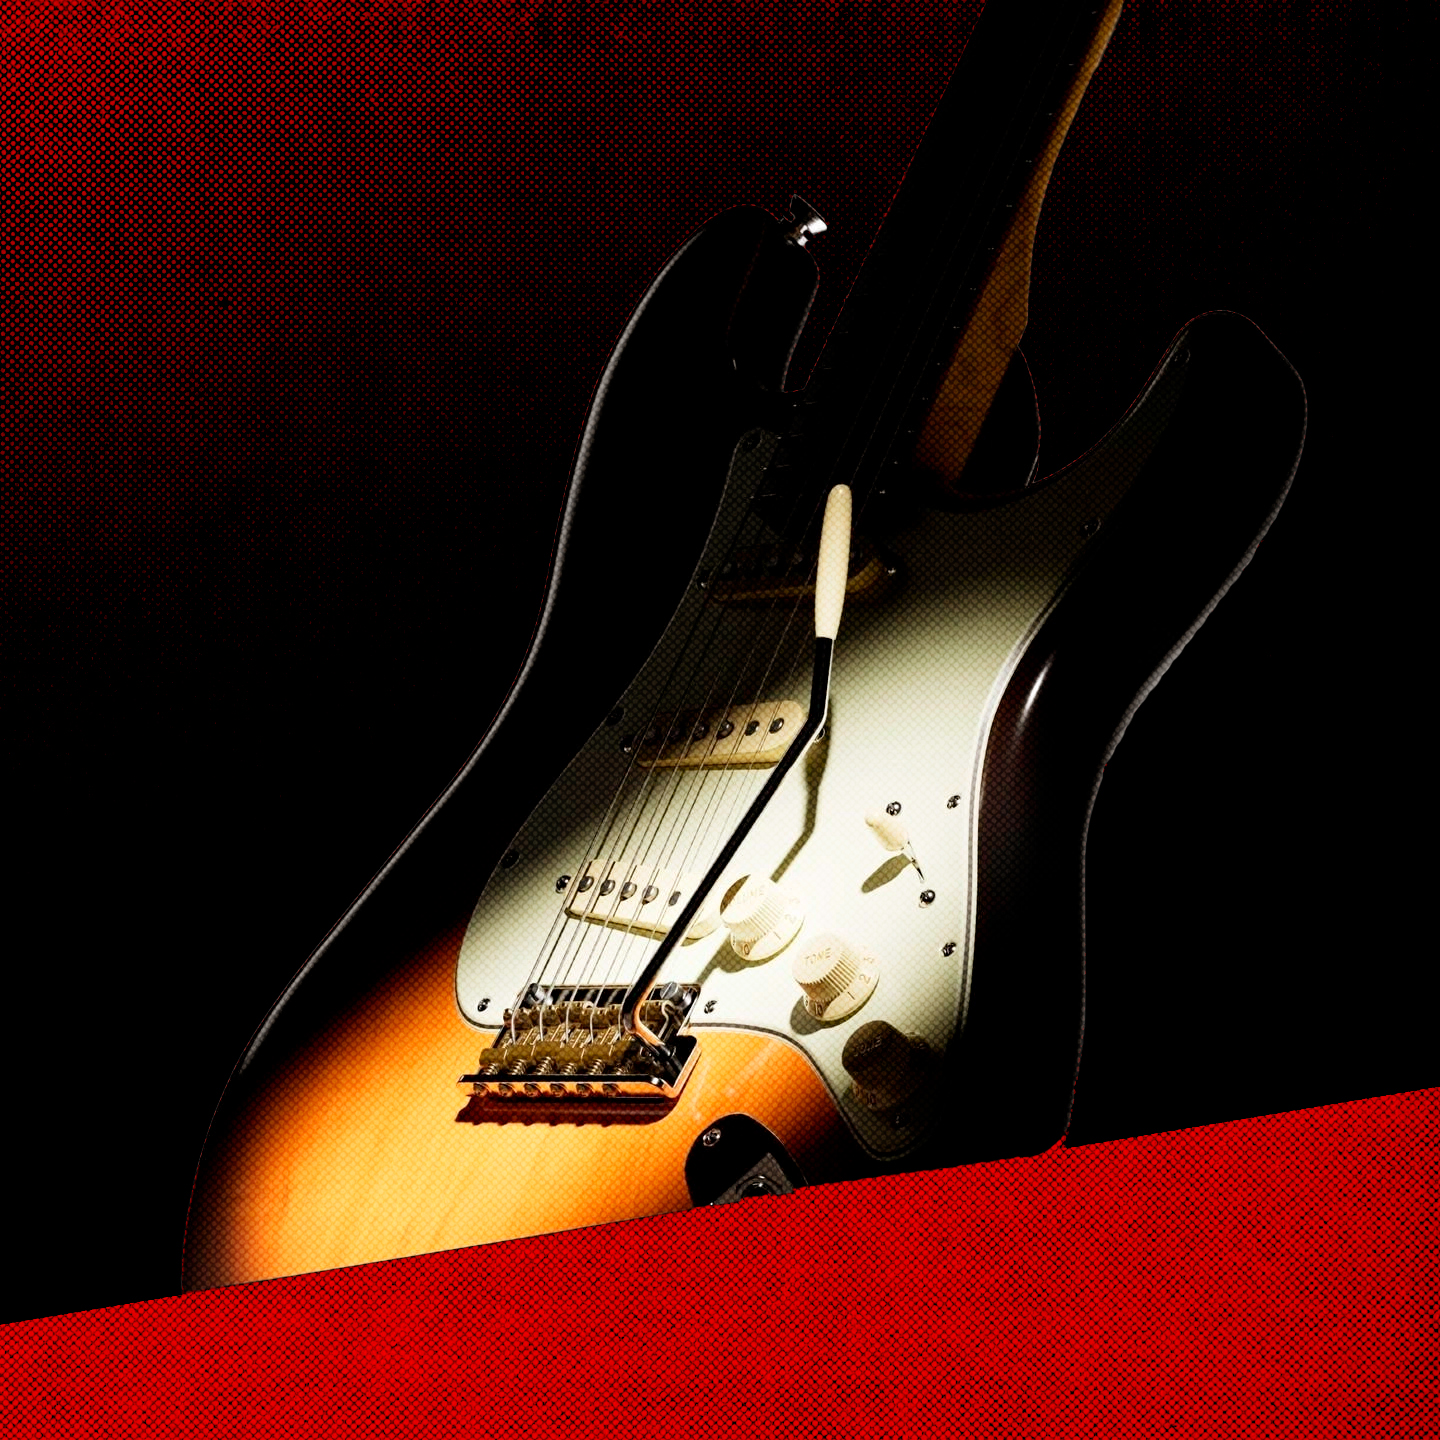
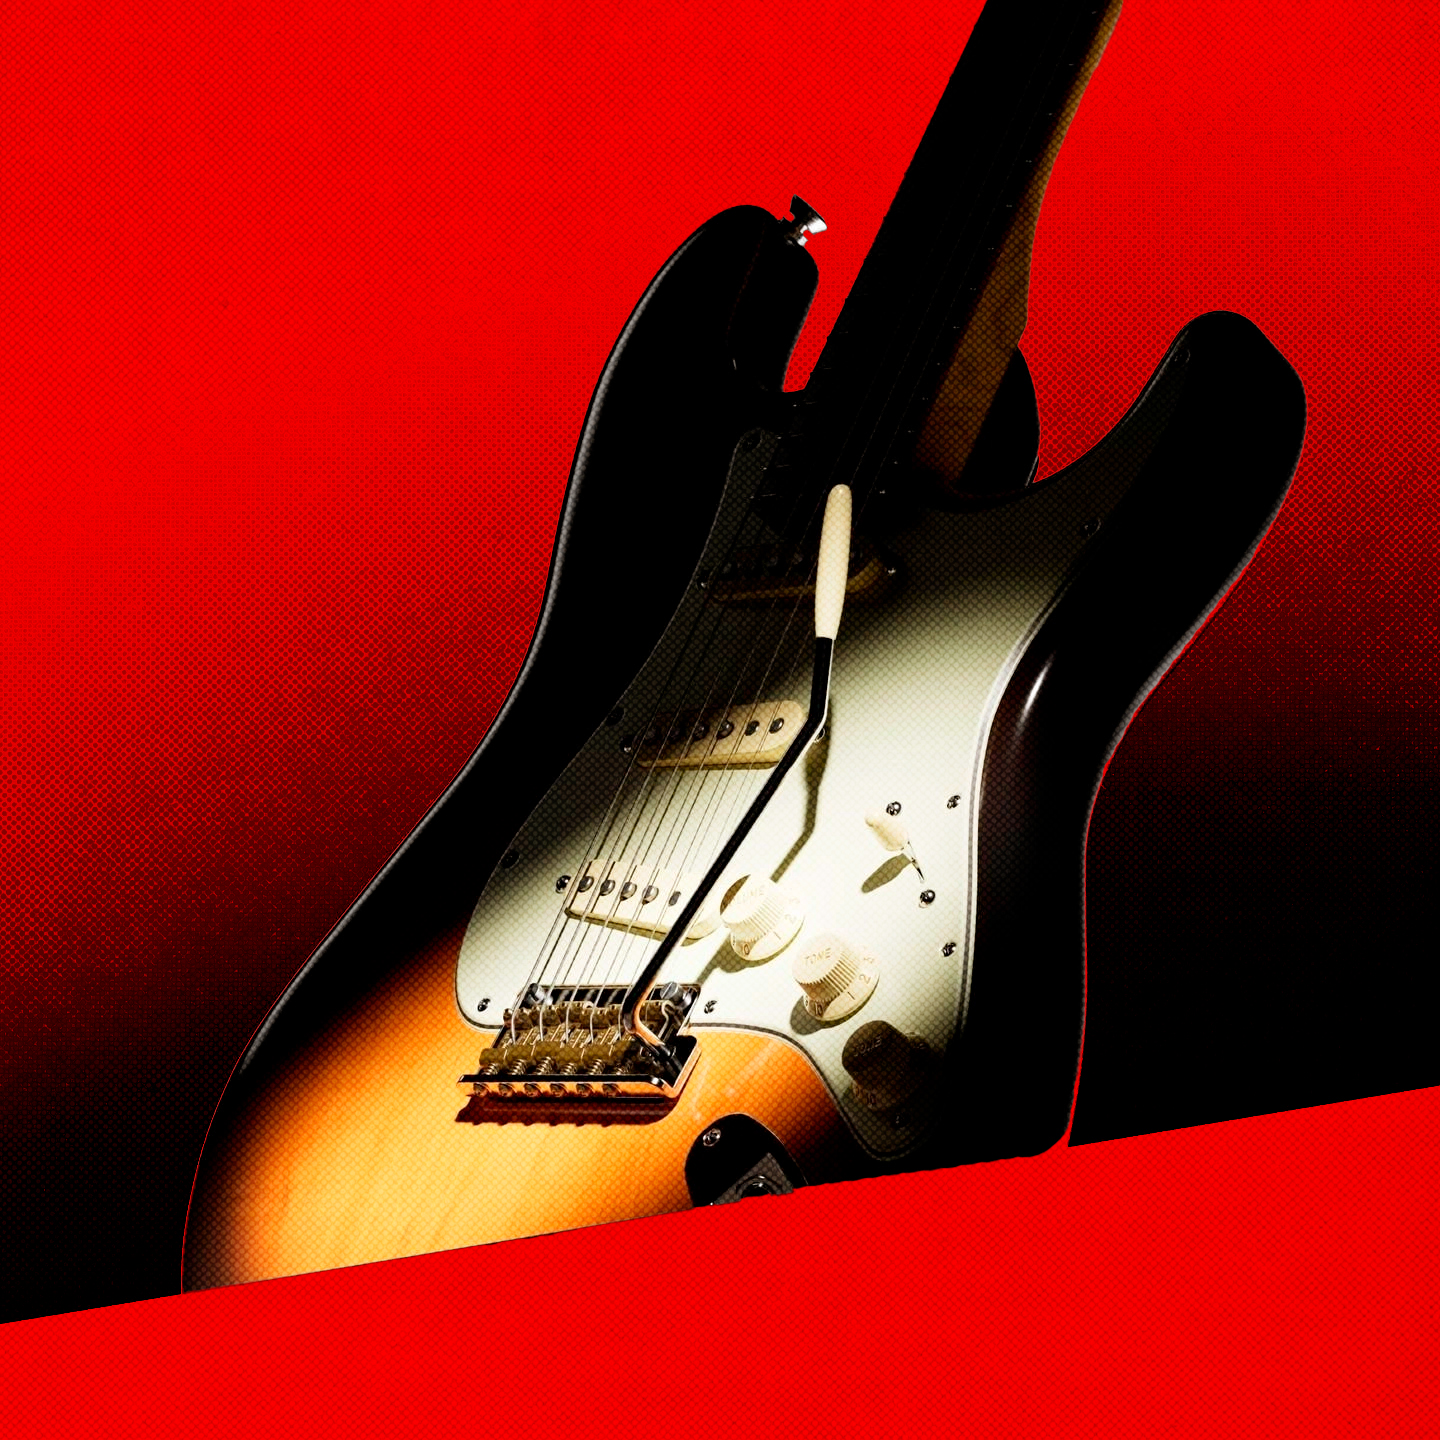
cambio de imagenes

diff --git a/index.html b/index.html
@@ -226,7 +226,7 @@
         <!-- Cara frontal: producción en serie (apagada) -->
         <div class="flip-face flip-front">
           <div class="vs-media">
-            <img src="assets/serie.png" alt="Línea de montaje de guitarras en una fábrica" loading="lazy" />
+            <img src="assets/fabrica.webp" alt="Línea de montaje de guitarras en una fábrica" loading="lazy" />
             <span class="vs-label">Producción en serie</span>
           </div>
           <ul class="vs-list" aria-label="Características de la producción en serie">
@@ -240,10 +240,8 @@
 
         <!-- Cara trasera: luthería de autor (destacada) -->
         <div class="flip-face flip-back">
-          <div class="vs-media vs-carousel">
-            <img src="assets/luthier-1.jpeg" class="vs-slide active" alt="Luthier trabajando una guitarra a medida" loading="lazy" />
-            <img src="assets/luthier-2.png" class="vs-slide" alt="Detalle del trabajo artesanal de luthería" loading="lazy" />
-            <img src="assets/luthier-3.jpeg" class="vs-slide" alt="Instrumento de autor terminado a mano" loading="lazy" />
+          <div class="vs-media">
+            <img src="assets/luthier-3.jpg" alt="Luthier trabajando una guitarra a medida" loading="lazy" />
             <span class="vs-label vs-label--red">★ Luthería de Autor</span>
           </div>
           <ul class="vs-list" aria-label="Características de la luthería de autor">
